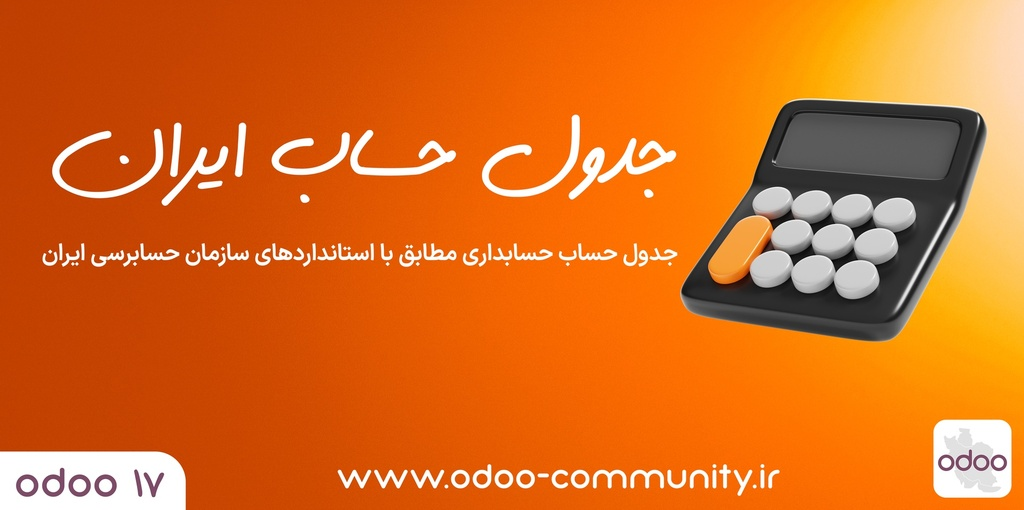
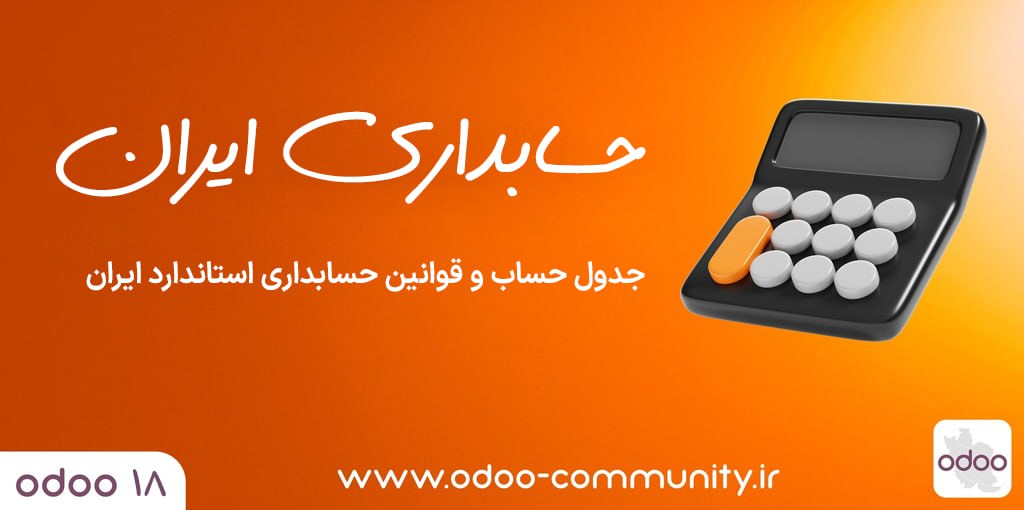
Dev l10n account 18 (#19)
* [ADD] add l10n_ir_account module version 18

* [IMP] improved manifest translation

---------

diff --git a/l10n_ir_account/__manifest__.py b/l10n_ir_account/__manifest__.py
@@ -4,6 +4,7 @@
 {
     "name": "Iran - Accounting",
     "summary": """Iran accounting chart and localization.""",
+    "description": """Iran accounting chart and localization.""",
     'author': "Odoo Community Iran",
     'website': "https://odoo-community.ir/",
     "category": "Accounting/Localizations/Account Charts",
